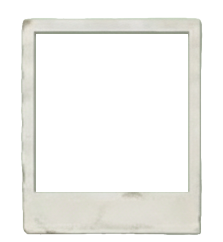
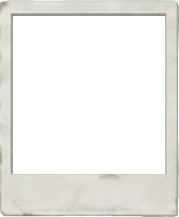
race_1p_scrapbook: polaroids are bigger

diff --git a/web/components/templates/race_1p_scrapbook/race_1p_scrapbook.tsx b/web/components/templates/race_1p_scrapbook/race_1p_scrapbook.tsx
@@ -12,12 +12,6 @@ import { StravaActivity } from '@/lib/strava';
 import { resolveActivityLocation } from '@/lib/activity-utils';
 import { SplitsChartSVG } from '@/lib/generateSplitsChart';
 
-// OPTIONAL: Register a hand-drawn font for realism
-// Font.register({
-//   family: 'Handwritten',
-//   src: 'path/to/your/handwritten-font.ttf',
-// });
-
 // Register handwritten fonts for scrapbook aesthetic
 Font.register({
   family: 'IndieFlower',
@@ -268,10 +262,8 @@ const styles = StyleSheet.create({
   polaroidRow: {
     flexDirection: 'row',
     justifyContent: 'center',
-    alignItems: 'center',
     marginTop: 20,
     marginBottom: 20,
-    gap: 15,
   },
   polaroidContainer: {
     width: 110,
@@ -279,6 +271,7 @@ const styles = StyleSheet.create({
     position: 'relative',
     padding: 8,
     paddingBottom: 25,
+    marginHorizontal: 8,
   },
   polaroidBg: {
     position: 'absolute',
@@ -286,11 +279,13 @@ const styles = StyleSheet.create({
     left: 0,
     width: '100%',
     height: '100%',
-    zIndex: -1,
   },
   polaroidImage: {
-    width: '100%',
-    height: '100%',
+    position: 'absolute',
+    top: 8,
+    left: 8,
+    width: 'calc(90% - 16px)',
+    height: 'calc(90% - 40px)',
     objectFit: 'cover',
     backgroundColor: '#ddd',
   },
@@ -372,7 +367,39 @@ const ScrapbookPDFInternal: React.FC<ScrapbookPageProps> = (props) => {
             <WashiItem value={stats.elevation} label="ELEVATION" color="blue" />
           </View>
 
-          {/* 6. Data Row (Splits, Efforts, Kudos) */}
+          {/* 6. Polaroid Photos Row */}
+          {morePhotosUrls.filter(url => url).length > 0 && (() => {
+            // Available width ~550px, leave gaps between polaroids
+            const polaroidWidth = 165;
+            const polaroidHeight = polaroidWidth * 1.2;
+
+            return (
+              <View style={styles.polaroidRow}>
+                {morePhotosUrls.filter(url => url).map((photoUrl, index) => {
+                  // Slightly vary rotation for visual interest
+                  const rotation = index % 2 === 0 ? -3 : 2;
+                  return (
+                    <View
+                      key={index}
+                      style={[
+                        styles.polaroidContainer,
+                        {
+                          transform: `rotate(${rotation}deg)`,
+                          width: polaroidWidth,
+                          height: polaroidHeight
+                        }
+                      ]}
+                    >
+                      <Image src={photoUrl} style={styles.polaroidImage} />
+                      <Image src="/assets/polaroid-frame.png" style={styles.polaroidBg} />
+                    </View>
+                  );
+                })}
+              </View>
+            );
+          })()}
+
+          {/* 7. Data Row (Splits, Efforts, Kudos) */}
           <View style={styles.dataRow}>
             {/* Splits Graph */}
             <View style={[styles.paperContainer, styles.splitsContainer]}>
@@ -403,23 +430,6 @@ const ScrapbookPDFInternal: React.FC<ScrapbookPageProps> = (props) => {
               <Text style={styles.kudosValue}>{kudosCount}</Text>
             </View>
           </View>
-
-          {/* 7. Polaroid Photos Row */}
-          {morePhotosUrls.filter(url => url).length > 0 && (
-            <View style={styles.polaroidRow}>
-              {morePhotosUrls.filter(url => url).map((photoUrl, index) => {
-                // Slightly vary rotation for visual interest
-                const rotation = index % 2 === 0 ? -3 : 2;
-                return (
-                  <View key={index} style={[styles.polaroidContainer, { transform: `rotate(${rotation}deg)` }]}>
-                    <Image src="/assets/polaroid-frame.png" style={styles.polaroidBg} />
-                    <Image src={photoUrl} style={styles.polaroidImage} />
-                    <Text style={styles.polaroidCaption}>more photos</Text>
-                  </View>
-                );
-              })}
-            </View>
-          )}
 
         </View>
       </Page>
@@ -510,8 +520,9 @@ const ScrapbookPDF: React.FC<ScrapbookPDFProps> = ({ activity, mapboxToken }) =>
   }
 
   // Get additional photos from activity.allPhotos (up to 4 for polaroid row)
+  // Skip the first photo since Strava returns the primary photo first
   const morePhotosUrls: string[] = (activity.allPhotos || [])
-    .slice(0, 4)
+    .slice(1, 5) // Skip first (primary), take next 4
     .map(photo => {
       // Use 600px size if available, otherwise fall back to 5000px
       const photoUrl = photo.urls['600'] || photo.urls['5000'] || Object.values(photo.urls)[0]
